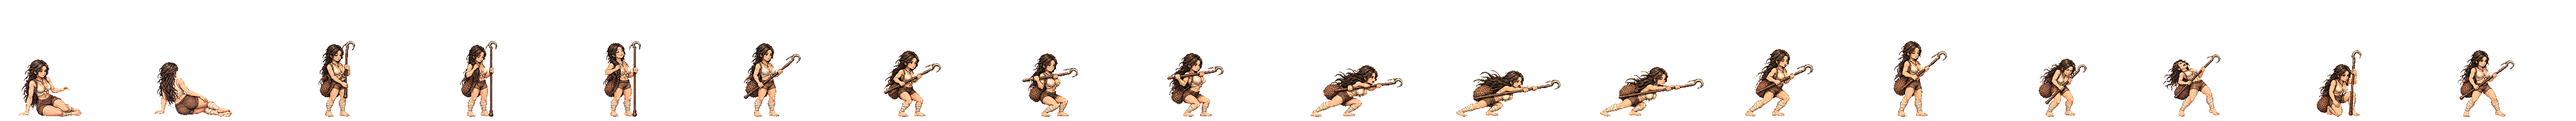
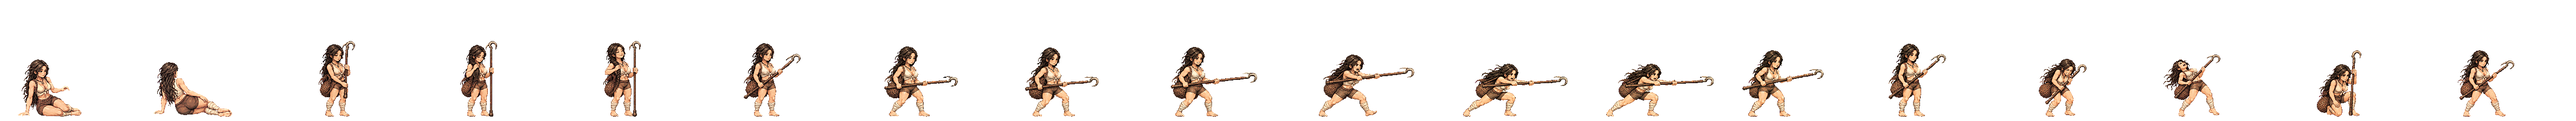
신지 너울 찌르기를 thrust3 로 (형 「어 신지너울 나아졌다」) — 준비는 앞뒤로 벌려 뒷다리에 무게 · 창을 허리로 당김 · 뻗을 때 뒷발이 박힌 채 앞발이 내딛음
Claude-Session: https://claude.ai/code/session_01TRiuN7s6aDfSnaHxrkctmU

Changed region(s): [[0.3426, 0.3438, 0.7786, 0.9688]]

diff --git a/tools/sprite-kit/anim-harness.py b/tools/sprite-kit/anim-harness.py
@@ -51,7 +51,7 @@ HEROES = {
     'noeul': dict(hit=True, strip='gen-noeul', atk='bow', atk8=False),   # 사로 노을(활)
     'sagong': dict(hit=True, strip='gen-sagong', atk='thrust', src='thrust2', actw=264, atk8=True, act=True, legacy=(('a', 2), ('a', 3), ('b', 3), ('b', 4))),   # 사물 사공(두 손 노 · 찌르기)
     'songbi': dict(strip='gen-songbi', atk='bow', atk8=False),   # 비류나 송비(활)
-    'sinneoul': dict(hit=True, strip='gen-sinneoul', atk='thrust', src='thrust2', actw=264, atk8=True, act=True, legacy=(('a', 2), ('a', 3), ('b', 3), ('b', 4))),   # 신지 너울(두 손 갈고리 장대 · 가슴 XL)
+    'sinneoul': dict(hit=True, strip='gen-sinneoul', atk='thrust', src='thrust3', actw=264, backfoot=True, atk8=True, act=True, legacy=(('a', 2), ('a', 3), ('b', 3), ('b', 4))),   # 신지 너울(두 손 갈고리 장대 · 가슴 XL)
     'sinneoul3': dict(hit=True, strip='gen-sinneoul-t3', atk='thrust', src='thrust3', actw=264, backfoot=True, atk8=True, act=True, pending=True, legacy=(('a', 2), ('a', 3), ('b', 3), ('b', 4))),   # 시험 줄(11-24 밤 · 형 「준비 동작 어정쩡 · 뒷발이 미끄러져 힘 빠져」): 신지 너울을 thrust3(뒷발 박힘 · 앞발 내딛음)로 · 게임엔 안 넣는다 · px 칸은 sinneoul 것을 sinneoul3-* 로 복사해 쓴다 · 굽기 backfoot = 가로 자리를 뒷발로
     'heo': dict(hit=True, strip='gen-heo', atk='thrust', src='thrust2', actw=264, atk8=True, act=True, legacy=(('a', 2), ('a', 3), ('b', 3), ('b', 4))),   # 가락 허황옥(금빛 창 · 가슴 L)
     'mwarrior': dict(hit=True, strip='gen-base-w-08-mahan-warrior', atk='thrust', src='thrust2', actw=264, atk8=True, act=True, legacy=(('a', 2), ('a', 3), ('b', 3), ('b', 4))),   # 마한 전사(창 · 우람한 뼈대)
